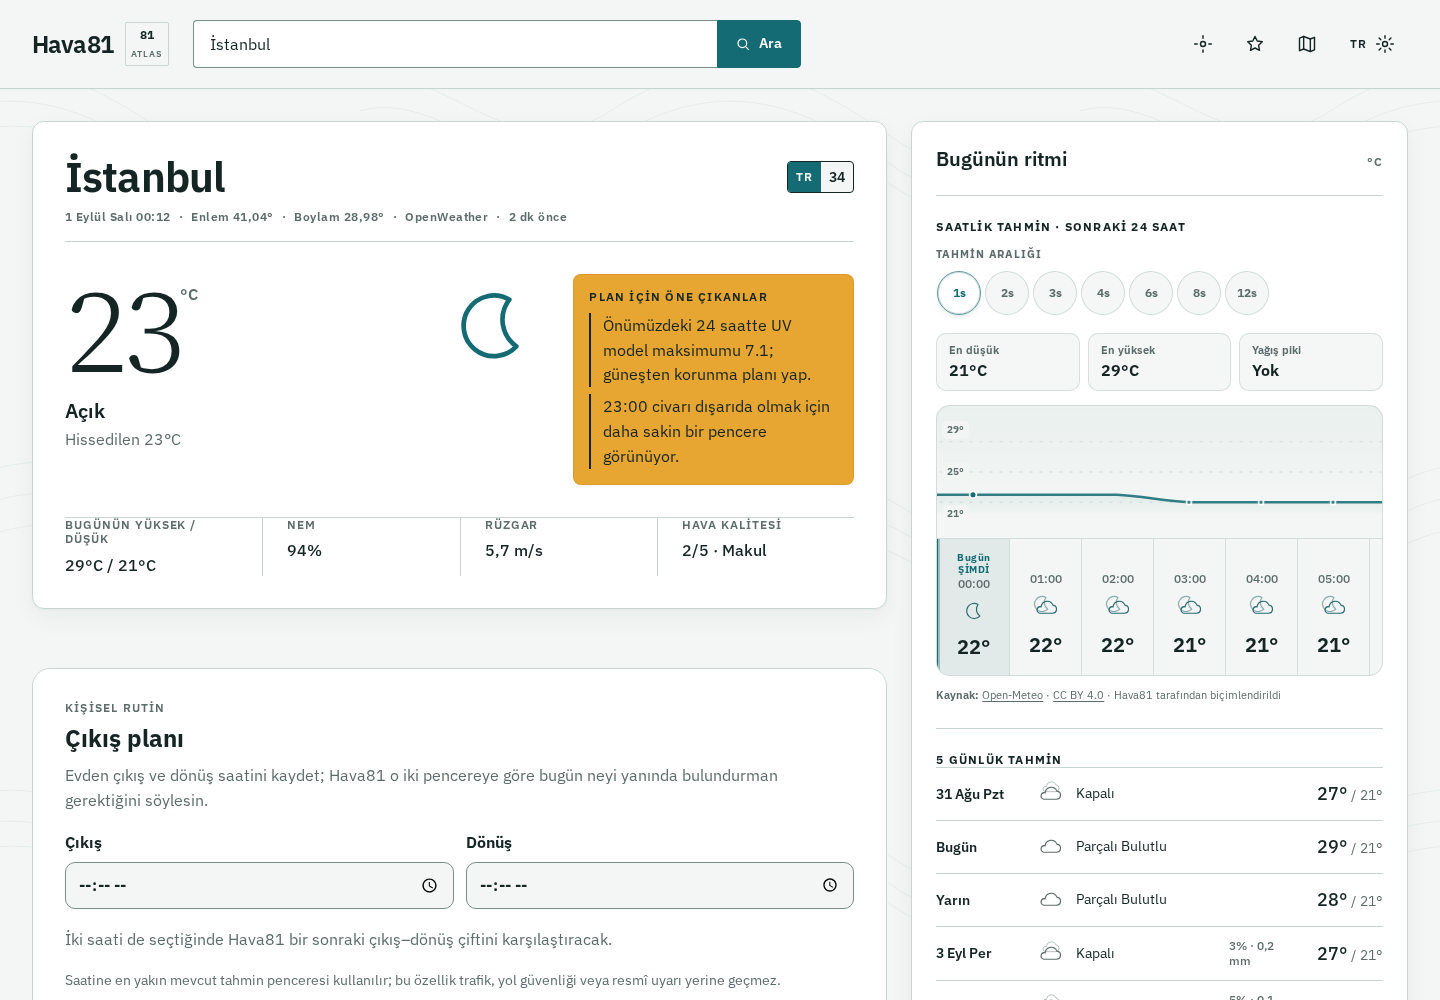
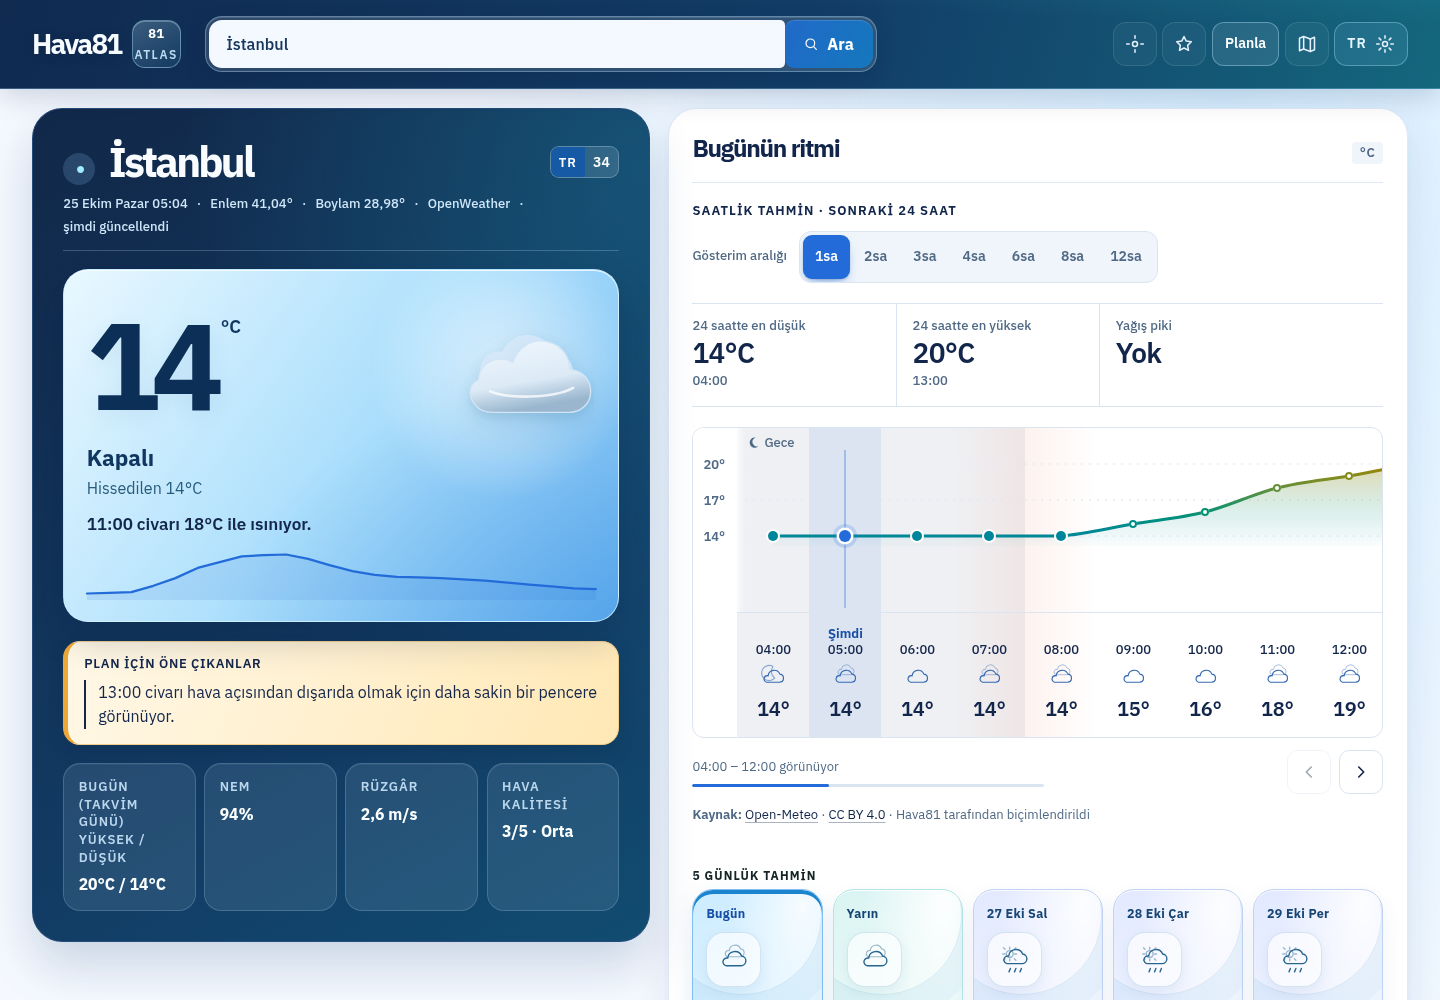
docs(readme): refresh live production screenshots

diff --git a/docs/AUTONOMOUS_PROGRESS.md b/docs/AUTONOMOUS_PROGRESS.md
@@ -1670,6 +1670,20 @@ Do not disable or pause automation, do not bypass a blocked write path, and do n
 3. Merge only after the new PR's exact head has green build/browser/Lighthouse/CodeQL checks and fresh mergeability/review state. Then watch the main deploy, verify production revision parity, smoke root/TR/EN routes plus API readiness/CORS, and rerun clean-context Lighthouse on `/istanbul/` to confirm SEO 100 when weather is unavailable.
 4. PR #1454 remains draft/blocked: SentinelX has not exposed a connected Oracle host; the gateway observer still reports `host_incident=true` and API build headroom false. Do not deploy API-runtime changes, keep port 4002 primary/4001 rollback, and never disable this automation.
 
+## 2026-10-25 05:15 TRT — Refresh README screenshots from live production
+
+- Captured fresh public-production screenshots at 2026-10-25 05:04 TRT in Turkish/light mode: desktop 1440×1000 and mobile 390×844. The real `/api/v1/weather/current`, `/hourly` and `/bundle` responses all returned HTTP 200; the UI showed its OpenWeather source and “just updated” freshness label. Both viewports had `scrollWidth === innerWidth` (no horizontal overflow). No API mocks or synthetic weather were used.
+- Replaced `docs/images/hava81-desktop.png` (optimized 584 KiB) and `docs/images/hava81-mobile.png` (optimized 192 KiB). Updated English and Turkish README captions to identify the 25 October 2026 capture and explicitly note that weather values are live at capture time and may change. Existing image dimensions remain 1440×1000 and 390×844.
+- Isolated screenshot branch/worktree: `automation/hava81-run11-readme-live-screenshots-20261025-0505` at `/home/chatgpt/hava81-run11-readme-live-screenshots-20261025-0505`, based on main `84db780bfe142cc50d4ce6357662af266948d2f7`. This is independent of the pending city-metadata PR #1465 (`b1a96407b75c54a7e5fca2e442c4777311d653a8`); its browser-flow check is still running while CodeQL, production build, API tests, frontend quality, Lighthouse budgets and script contracts are green.
+- SentinelX still has no connected Oracle host (`host_id=null`, `host_incident=true`). The gateway-local observer snapshot is not an Oracle disk measurement; no API deploy was attempted.
+
+### Exact next actions / queue
+
+1. Run `git diff --check`, confirm the two screenshot dimensions and inspect the README/README.tr diff; commit the screenshot and caption update, fetch main, and rebase if PR #1465 has merged while this branch was being prepared.
+2. Push `automation/hava81-run11-readme-live-screenshots-20261025-0505` and open a documentation-only PR. While its CI is pending, continue an independent task in a separate worktree; do not modify the pending locale-metadata PR from this branch.
+3. For PR #1465, wait for the exact-head browser-flow result. If it turns green, re-check head SHA, mergeability, review state and the latest observer snapshot immediately before merge; merge, watch main CI/deploy, and verify production. Then rebase the screenshot branch onto the resulting main SHA, preserving both append-only checkpoints.
+4. After the locale-metadata fix deploys, run a clean-context Lighthouse request to `/istanbul/` and confirm SEO 100 with weather API unavailable. Keep PR #1454 draft/blocked until the actual Oracle host and API-build-headroom gate are freshly healthy. Never disable this automation.
+
 ## 2026-10-25 05:56 TRT — Announce map tile failure promptly
 
 - Started from freshly fetched `origin/main=5d69cc383fb2a708f53cbb77e8673213b7067648` in isolated worktree `/home/chatgpt/hava81-run11-map-tile-alert-20261025-0545`, branch `automation/hava81-map-tile-error-announcement-20261025-0545`. No pending branch or dirty worktree was reused.

diff --git a/docs/AUTONOMOUS_DECISIONS.md b/docs/AUTONOMOUS_DECISIONS.md
@@ -513,6 +513,10 @@ The live responsive audit should support an explicitly configured loopback Chrom
 
 A canonical province slug is sufficient to derive the localized city route, title, description, canonical URL and hreflang alternates. Apply those from the route while the current-weather request is pending or failed; a provider response must not be a prerequisite for correct URL/head metadata. Preserve the user's view query/hash during the early locale path correction. Keep the fallback weather state honest: this change changes routing/metadata only and must never invent weather observations. Regression coverage must include both locales with the API blocked, and a clean-context production Lighthouse run must confirm canonical SEO no longer races the client-side locale change. This is frontend-only; it does not authorize an API deployment while the Oracle host/headroom gate is red.
 
+## 2026-10-25 — README screenshots must be real, fresh and time-labelled
+
+Refresh product screenshots from the public production UI only after confirming successful live weather API responses, the visible provider/freshness label, the intended locale/theme and no horizontal overflow at the target viewport. Never seed or mock weather for documentation screenshots. Because weather values are time-sensitive, keep the README captions explicit that the image is a dated UI snapshot and that values may change; keep English and Turkish README captions aligned.
+
 ## 2026-10-25 — Map tile failure announcements are assertive; loading remains polite
 
 Keep the map's initial tile-loading message as a polite status. When both tile providers fail, expose the visible failure and retry action as an assertive alert, with an explicit `aria-live="assertive"` that agrees with the `alert` role rather than inheriting the loading state's polite setting. This is an accessibility announcement change only; do not alter tile sources, fallback/retry behavior, map state, weather evidence or safety guidance.

diff --git a/README.tr.md b/README.tr.md
@@ -16,6 +16,8 @@ Türkiye'nin 81 ili için karar odaklı hava durumu deneyimi.
 
 ![İstanbul karar alanı, saatlik tahmin ve çevresel bağlamı gösteren Hava81 masaüstü arayüzü](docs/images/hava81-desktop.png)
 
+<sub>25 Ekim 2026 tarihinde alınmış ürün arayüzü görüntüsü; hava değerleri çekim anındaki canlı veridir ve değişebilir.</sub>
+
 ## Neden Hava81?
 
 Çoğu hava durumu uygulaması **havanın ne olduğunu** söyler. Hava81, **havanın günün için ne anlama geldiğini** anlatmak üzere tasarlanır.
@@ -46,6 +48,8 @@ Anlık koşulları, saatlik ve günlük tahmini, hava kalitesini ve çevresel si
 <p align="center">
   <img src="docs/images/hava81-mobile.png" width="390" alt="İstanbul hava durumu karar görünümünü ve alt navigasyonu gösteren Hava81 mobil arayüzü" />
 </p>
+
+<p align="center"><sub>25 Ekim 2026 tarihinde alındı; canlı hava değerleri değişebilir.</sub></p>
 
 ## Canlı Yüzeyler
 

diff --git a/README.md b/README.md
@@ -16,6 +16,8 @@ Decision-first weather intelligence for all 81 provinces of Türkiye.
 
 ![Hava81 desktop interface showing the İstanbul decision field, hourly forecast and environmental context](docs/images/hava81-desktop.png)
 
+<sub>Product UI snapshot captured 25 October 2026; weather values are live at capture time and may change.</sub>
+
 ## Why Hava81?
 
 Most weather apps answer **what the weather is**. Hava81 is designed to answer **what it means for your day**.
@@ -46,6 +48,8 @@ It combines current conditions, hourly and daily forecasts, air quality and envi
 <p align="center">
   <img src="docs/images/hava81-mobile.png" width="390" alt="Hava81 mobile interface showing the İstanbul weather decision view and bottom navigation" />
 </p>
+
+<p align="center"><sub>Captured 25 October 2026; live weather values may change.</sub></p>
 
 ## Live Surfaces
 
